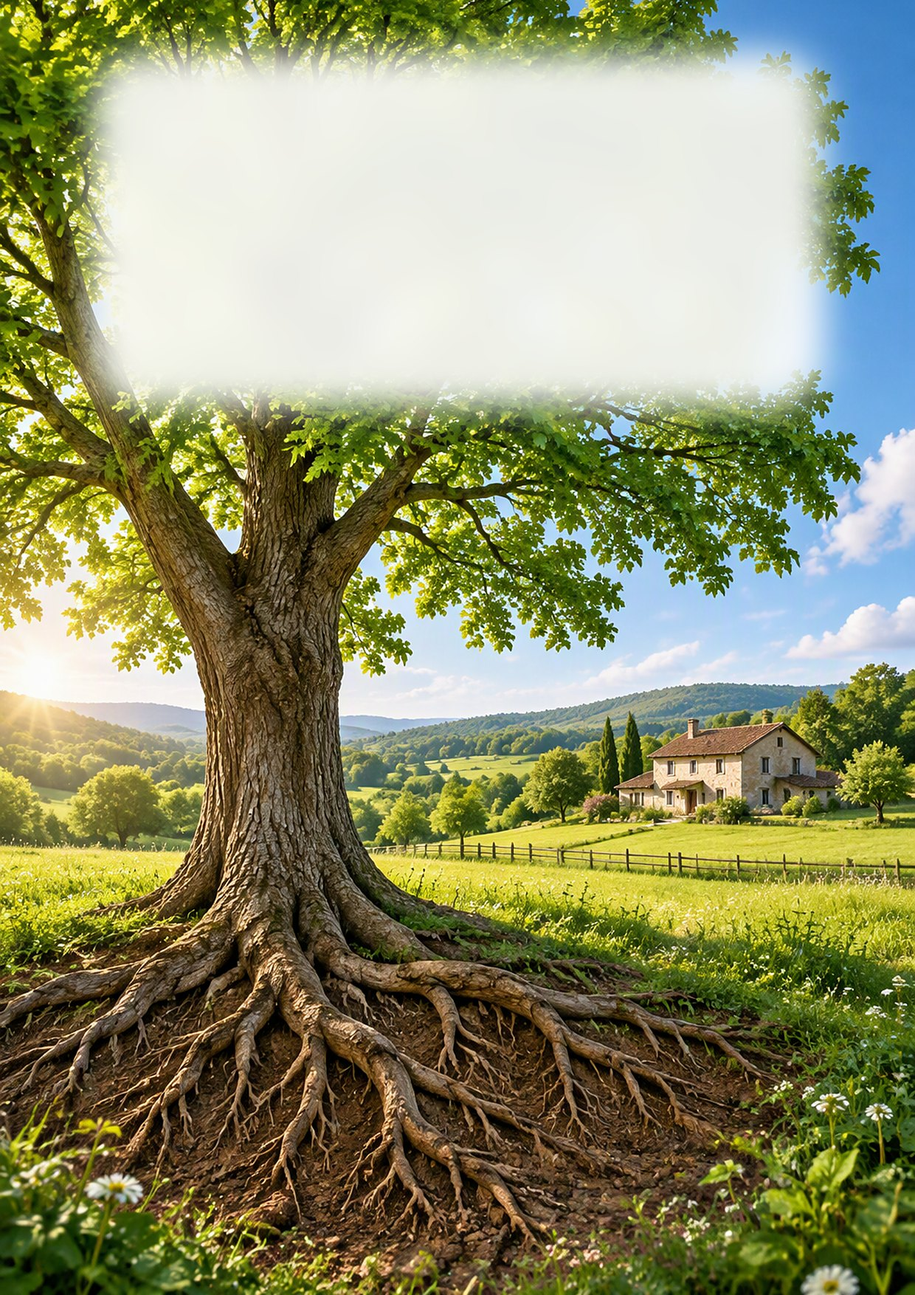
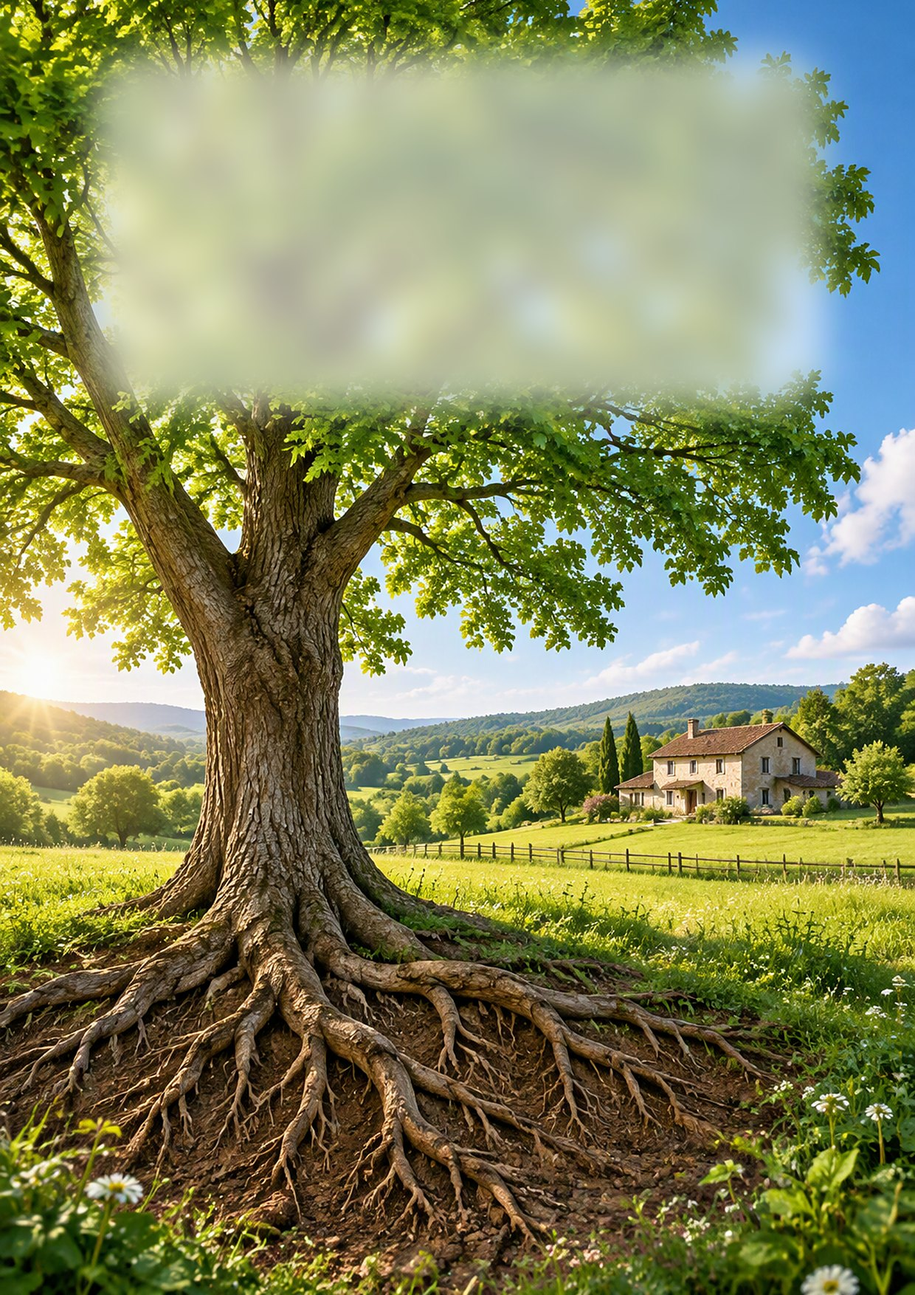
Livre 2.14.1 : panneau flouté translucide sur la pochette chêne
Claude-Session: https://claude.ai/code/session_015kpz4oPeeMDrzqfLUgTJXp

Changed region(s): [[0.0919, 0.0308, 0.9194, 0.3387]]

diff --git a/tng-suite.php b/tng-suite.php
@@ -2,7 +2,7 @@
 /**
  * Plugin Name: TNG Suite
  * Description: Suite unifiée pour TNG : arbres et descendance, bouton vers la fiche, frise chronologique, heatmap des lieux, galerie de médias, individu au hasard, nuage de noms et anniversaires, statistiques et graphiques, éventail (roue de parenté), implexe et consanguinité, livre généalogique, fiche et listes de documents. Un seul réglage de connexion (wp-config.php ou saisie dans le plugin), de préfixe et d'URL, et un réglage « vivants / privés » par module, en français ou en anglais.
- * Version: 2.14.0
+ * Version: 2.14.1
  * Requires PHP: 7.4
  * Requires at least: 5.8
  * Author: Cédric Malvache
@@ -23,7 +23,7 @@ if ( ! defined( 'ABSPATH' ) ) {
     exit;
 }
 
-define( 'TNGSUITE_VERSION', '2.14.0' );
+define( 'TNGSUITE_VERSION', '2.14.1' );
 define( 'TNGSUITE_FILE', __FILE__ );
 define( 'TNGSUITE_DIR', plugin_dir_path( __FILE__ ) );
 define( 'TNGSUITE_URL', plugin_dir_url( __FILE__ ) );

diff --git a/docs/fr/book.md b/docs/fr/book.md
@@ -38,7 +38,7 @@ La page (onglet **Documents**) comporte trois sections : **Livre : générer un 
 - Contexte historique (listes de faits) : le réglage « Chronologie : avec contexte historique » insère dans la chronologie, en italique, les faits des listes cochées dans la ligne « Contexte historique : listes à utiliser » ; les mêmes listes servent à la phrase « Contexte historique » des fiches. **Listes fournies** : France, Belgique, Suisse, Espagne, Italie, Allemagne, Royaume-Uni, États-Unis et Canada (textes en français, ou en anglais si le livre est dans une autre langue ; pour un livre en catalan ou en espagnol, copiez une liste dans vos listes et traduisez-la). **Vos listes** : dans **TNG Suite > Documents > Livre : réglages > Faits historiques**, créez autant de listes que vous voulez (France, England, Catalunya, España…) et écrivez-y les textes dans la langue de votre choix, une entrée par ligne : `1714-09-11 | Caiguda de Barcelona` pour un événement (date AAAA, AAAA-MM ou AAAA-MM-JJ) ou `1936-07-17 .. 1939-04-01 | la guerra civil` pour une période (guerre, régime… avec son article : elle sert à la phrase des fiches « pendant … » / « a vécu … »). La liste déroulante « Liste à modifier » donne accès à chacune de vos listes (modifiez puis « Enregistrer la liste » ; « Supprimer cette liste » l’efface), ou crée une **nouvelle liste**, vide ou copiée d’une liste fournie (copie modifiable, en français ou en anglais) : elle apparaît ensuite dans cette liste déroulante et dans les cases du formulaire du livre. Les **listes fournies** peuvent être retirées du formulaire du livre : sous l’éditeur, décochez celles dont vous n’avez pas besoin (elles restent disponibles comme modèles à copier ; recochez-les pour les remettre). Vous pouvez aussi exporter une liste en fichier `.txt` et en importer une. **Pour chaque livre** (et chaque profil), la ligne « Contexte historique : listes à utiliser » du formulaire permet de cocher les listes à afficher, par exemple France et Espagne pour monsieur X, et de choisir comment elles s’appliquent : **à tout le livre** (toutes les listes cochées valent pour toutes les personnes ; une même période, comme la Première Guerre mondiale, n’est citée qu’une fois dans les fiches) ou **selon le lieu de naissance** de chaque personne. Dans ce second cas, chaque liste porte des **mots-clés de lieu** (par exemple `Catalunya, Cataluña, Espanya`) : une personne reçoit les listes dont un mot-clé correspond à un élément de son lieu de naissance (ou de baptême), en partant de la fin. Une liste sans mot-clé vaut pour tout le monde (faits de famille, événements personnels) ; une seule liste à mots-clés cochée vaut pour tout le livre ; un lieu sans mot-clé reconnu reçoit la **liste par défaut** (à défaut, la première cochée), sauf s’il nomme un pays connu dont aucune liste n’est cochée (ex. Pologne : rien n’est ajouté). Avec plusieurs listes à mots-clés, une liste n’est retenue que si elle compte au moins deux personnes du livre (ou 3 %), seulement pour la période où ses personnes ont vécu, et chaque fait porte alors le nom de sa liste entre parenthèses. Les événements personnalisés des versions précédentes sont repris dans une liste « Événements personnalisés ».
 - Nouveau livre : le bouton « Nouveau livre » (et un premier réglage du plugin) part des réglages recommandés : modèle Élégant, cadre en filet simple, arbre de couverture en couleurs, format PDF (HTML si le PDF direct est indisponible), photos TNG avec silhouettes génériques, baptême et sépulture, phrases détaillées, lieux avec pays, informations militaires, notes, autres unions, fiche détaillée pour chaque conjoint, enfants des couples, chronologie avec contexte historique et contexte historique dans les fiches, « En chiffres », arbres, listes récapitulatives, cousinages et implexes, index et carte des lieux. Décochés par défaut : frères et sœurs, sources, mode diagnostic. Les profils déjà enregistrés ne changent pas.
 - Cadre autour des pages : « Aucun », « Filet simple », « Double filet » ou « Cadre orné » (angles creusés et filet intérieur, dessiné par le plugin), dans la couleur du livre (« en-têtes et liens »). Valable pour la page imprimable, le PDF, Word et OpenDocument (le cadre orné devient un double filet dans Word et OpenDocument) ; la couverture n’a pas de cadre.
-- Illustration de couverture : « Aucune » (deux filets autour du titre), « Fleurons au-dessus et au-dessous du titre » ou un arbre à l’aquarelle : chêne ample, arbre penché aux branches légères, saule pleureur, arbre feuillu dont les racines sont dessinées dessous, arbre en couleurs (feuillage vert, tronc brun, racines dans la terre, médaillons ronds vides sur les branches), ou « Pochette pleine page » (PDF : fond crème sur toute la première page, arbre à l’aquarelle qui part du bord gauche, titre dessous ; dans les autres formats, l’arbre penché habituel). Deux autres pochettes pleine page (PDF) utilisent des illustrations fournies avec le plugin : un arbre aux étiquettes vierges et aux oiseaux au-dessus d’une prairie fleurie, un grand tronc au feuillage pastel dominant la campagne, et un chêne aux racines apparentes devant la campagne ; le texte de la couverture se place dans la zone libre, ou, pour le chêne, sur un panneau blanc flouté en haut de page. Les arbres sont dessinés par le plugin dans la couleur du livre ; ces deux illustrations gardent leurs couleurs.
+- Illustration de couverture : « Aucune » (deux filets autour du titre), « Fleurons au-dessus et au-dessous du titre » ou un arbre à l’aquarelle : chêne ample, arbre penché aux branches légères, saule pleureur, arbre feuillu dont les racines sont dessinées dessous, arbre en couleurs (feuillage vert, tronc brun, racines dans la terre, médaillons ronds vides sur les branches), ou « Pochette pleine page » (PDF : fond crème sur toute la première page, arbre à l’aquarelle qui part du bord gauche, titre dessous ; dans les autres formats, l’arbre penché habituel). Deux autres pochettes pleine page (PDF) utilisent des illustrations fournies avec le plugin : un arbre aux étiquettes vierges et aux oiseaux au-dessus d’une prairie fleurie, un grand tronc au feuillage pastel dominant la campagne, et un chêne aux racines apparentes devant la campagne ; le texte de la couverture se place dans la zone libre, ou, pour le chêne, sur un panneau blanc flouté et translucide en haut de page. Les arbres sont dessinés par le plugin dans la couleur du livre ; ces deux illustrations gardent leurs couleurs.
 - Table des matières : dans le PDF, elle affiche les numéros de page (table native de mPDF, entrées cliquables). Dans la page imprimable, Word et OpenDocument, les entrées renvoient à leur titre sans numéro de page.
 - Autres options du contenu : « Frères et sœurs sur les fiches » (autres enfants de la famille d’origine, avec lien vers leur fiche si elle existe) ; « Autres mariages et unions des ancêtres » (en plus de l’union dont descend la lignée) ; « Cousinages et implexes » (partie ajoutée seulement si un même ancêtre apparaît plusieurs fois) ; « Carte des lieux de vie » (nombre de personnes par département ou province, en noir et blanc) ; « Index des noms et des lieux » et « Sources » ; « Niveaux de lieux affichés » (commune seule ou jusqu’à cinq niveaux).
 - Conjoints : dans l’ascendance, une petite photo du conjoint (réglage « Photos ») accompagne la phrase d’union, avec le lien vers sa fiche détaillée. Dans la descendance, l’option « Une fiche détaillée pour chaque conjoint » (cochée par défaut pour un nouveau réglage, décochée pour les réglages déjà enregistrés) ajoute, à la suite de la fiche du descendant, une fiche pour chaque conjoint qui n’est pas déjà dans le livre (sans petite photo : la fiche suit), numérotée comme le couple suivi de « c » (D12c, D12c2 pour une deuxième union) ; la phrase d’union se limite alors à son nom avec un lien. Un conjoint déjà ancêtre ou descendant, masqué ou écarté n’a pas de fiche supplémentaire : le lien renvoie à sa fiche existante.

diff --git a/docs/en/book.md b/docs/en/book.md
@@ -38,7 +38,7 @@ The page (**Documents** tab) has three sections: **Book: generate a book**, **Bo
 - Historical background (fact lists): the setting “Timeline: with historical background” inserts, in italics, the facts of the lists ticked in the “Historical background: lists to use” row into the chronology; the same lists feed the “Historical background” sentence of the records. **Supplied lists**: France, Belgium, Switzerland, Spain, Italy, Germany, United Kingdom, United States and Canada (texts in French, or in English if the book is in another language; for a Catalan or Spanish book, copy a list into your lists and translate it). **Your lists**: in **TNG Suite > Documents > Book: settings > Historical facts**, create as many lists as you like (France, England, Catalunya, España…) and write the texts in the language of your choice, one entry per line: `1714-09-11 | Caiguda de Barcelona` for an event (date YYYY, YYYY-MM or YYYY-MM-DD) or `1936-07-17 .. 1939-04-01 | the civil war` for a period (war, regime… with its article: used by the records’ “during …” / “lived through …” sentence). The “List to edit” drop-down gives access to each of your lists (edit, then “Save list”; “Delete this list” removes it), or creates a **new list**, empty or copied from a supplied list (editable copy, in French or English): it then appears in that drop-down and in the tick boxes of the book form. The **supplied lists** can be removed from the book form: under the editor, untick those you do not need (they remain available as templates to copy; tick them again to bring them back). You can also export a list as a `.txt` file and import one. **For each book** (and each profile), the “Historical background: lists to use” row of the form lets you tick the lists to display, for example France and Spain for Mr X, and choose how they apply: **to the whole book** (all ticked lists apply to everyone; a period shared by several lists, such as the First World War, is mentioned only once in the records) or **according to each person’s birthplace**. In the latter case, each list has **place keywords** (for example `Catalunya, Cataluña, Espanya`): a person gets the lists with a keyword matching an element of their birthplace (or baptism place), starting from the end. A list without keywords applies to everyone (family facts, personal events); a single ticked list with keywords applies to the whole book; a place with no recognised keyword gets the **default list** (otherwise the first ticked one), unless it names a known country whose list is not ticked (e.g. Poland: nothing is added). With several lists with keywords, a list is kept only if it has at least two people in the book (or 3%), only for the period its people lived, and each fact then shows its list name in brackets. Custom events from earlier versions are moved into a list called “Événements personnalisés”.
 - New book: the “New book” button (and a first-time plugin setup) starts from the recommended settings: Elegant template, single-line frame, colour cover tree, PDF format (HTML if direct PDF is unavailable), TNG photos with generic silhouettes, baptism and burial, detailed sentences, places with country, military information, notes, other unions, a detailed record for each spouse, children of couples, chronology with historical background and historical background in the records, “In figures”, trees, summary lists, cousin marriages and implex, index and places map. Off by default: siblings, sources, diagnostic mode. Profiles already saved do not change.
 - Page frame: “None”, “Single line”, “Double line” or “Ornate frame” (hollowed corners and inner line, drawn by the plugin), in the book colour (“headings and links”). Applies to the printable page, PDF, Word and OpenDocument (the ornate frame becomes a double line in Word and OpenDocument); the cover has no frame.
-- Cover illustration: “None” (two lines around the title), “Flourishes above and below the title” or a watercolour-style tree: broad oak, leaning tree with light branches, weeping willow, a leafy tree with its roots drawn below, a full-colour tree (green foliage, brown trunk, roots in the soil, empty round medallions on the branches), or a “Full-page cover” (PDF: cream background over the whole first page, watercolour tree growing from the left edge, title below; other formats use the usual leaning tree). Two more full-page covers (PDF) use illustrations supplied with the plugin: a tree with blank ribbons and birds above a flowering meadow, a large trunk with pastel foliage overlooking the countryside, and an oak with exposed roots in front of the countryside; the cover text goes in the free area or, for the oak, on a blurred white panel at the top of the page. The trees are drawn by the plugin in the book colour; these two illustrations keep their own colours.
+- Cover illustration: “None” (two lines around the title), “Flourishes above and below the title” or a watercolour-style tree: broad oak, leaning tree with light branches, weeping willow, a leafy tree with its roots drawn below, a full-colour tree (green foliage, brown trunk, roots in the soil, empty round medallions on the branches), or a “Full-page cover” (PDF: cream background over the whole first page, watercolour tree growing from the left edge, title below; other formats use the usual leaning tree). Two more full-page covers (PDF) use illustrations supplied with the plugin: a tree with blank ribbons and birds above a flowering meadow, a large trunk with pastel foliage overlooking the countryside, and an oak with exposed roots in front of the countryside; the cover text goes in the free area or, for the oak, on a translucent blurred white panel at the top of the page. The trees are drawn by the plugin in the book colour; these two illustrations keep their own colours.
 - Table of contents: in the PDF it shows page numbers (native mPDF table, clickable entries). In the printable page, Word and OpenDocument, entries link to their heading without page numbers.
 - Other content options: “Siblings on the records” (other children of the family of origin, with a link to their record when it exists); “Other marriages and unions of the ancestors” (besides the union the line descends from); “Cousinages and implexes” (part added only when the same ancestor appears several times); “Map of places of life” (number of people per département or province, in black and white); “Index of names and places” and “Sources”; “Place levels shown” (municipality only, or up to five levels).
 - Spouses: in the ancestors section, a small photo of the spouse (“Photos” setting) goes with the union sentence, with the link to their detailed record. In the descendants section, the option “a detailed record for each spouse” (ticked by default for new settings, unticked for settings already saved) adds, right after the descendant’s record, a record for every spouse who is not already in the book (no small photo: the record follows), numbered like the couple followed by “c” (D12c, D12c2 for a second union); the union sentence is then limited to the name with a link. A spouse who is already an ancestor or descendant, hidden or dropped gets no extra record: the link points to the existing one.
